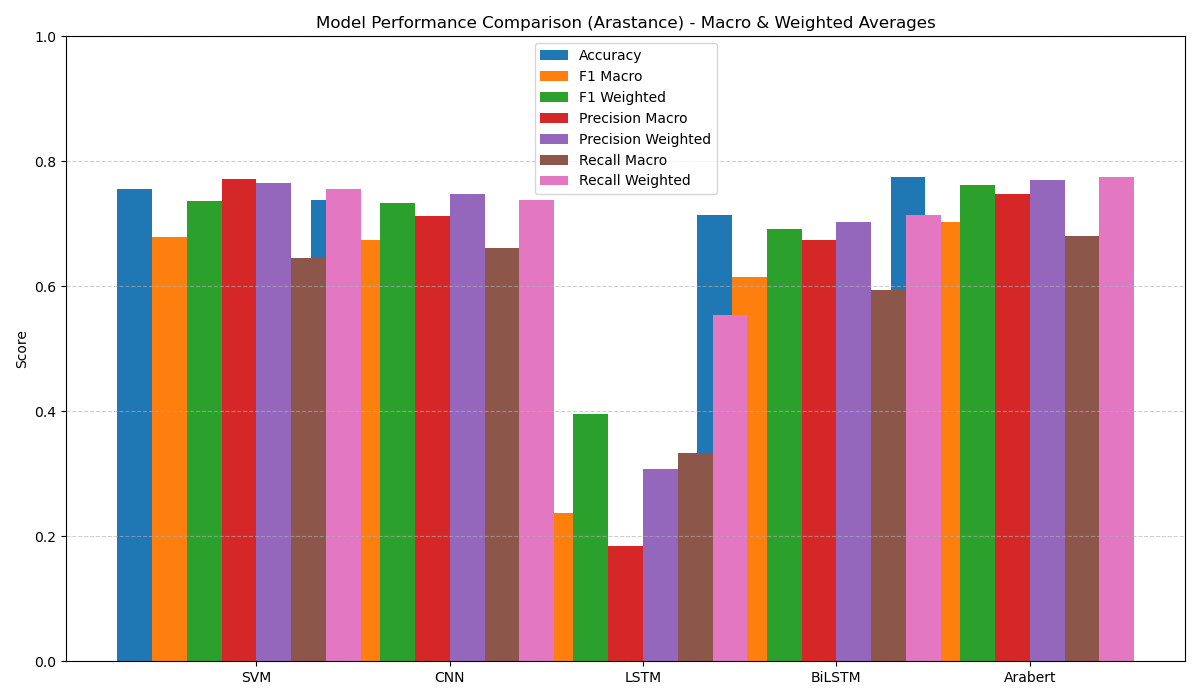
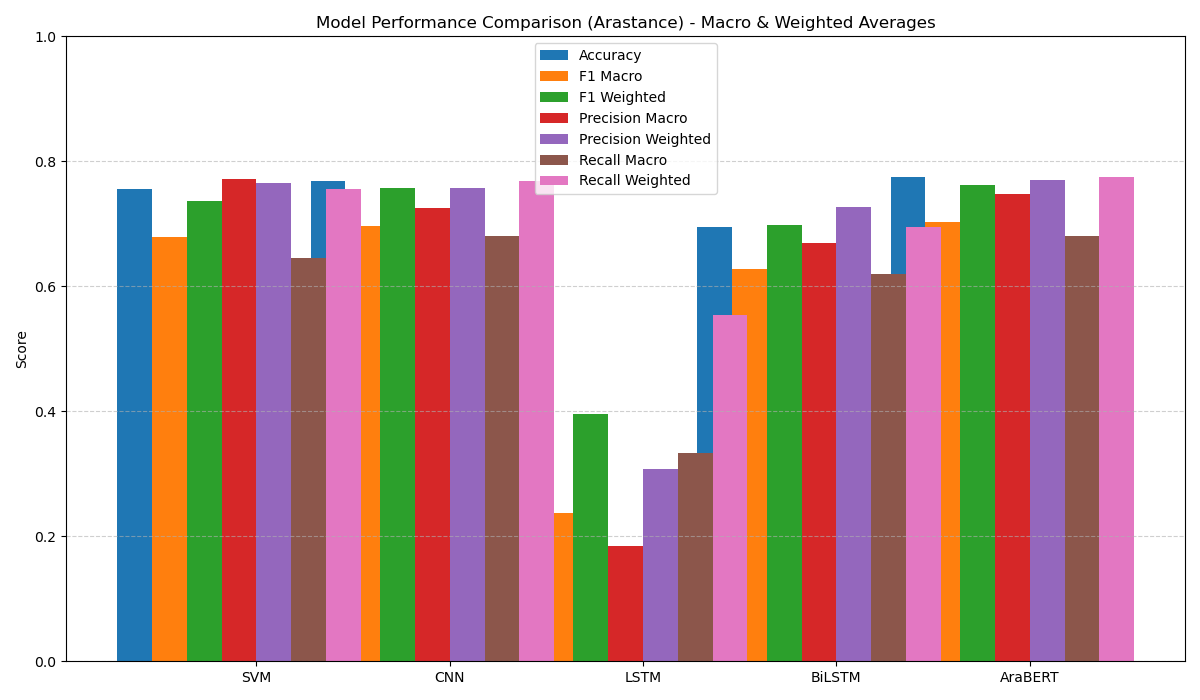
Update Arastance metrics/reporting, add detailed comparison table, update README and diagrams

diff --git a/Arastance_only.py b/Arastance_only.py
@@ -379,14 +379,14 @@ with torch.no_grad():
         preds = outputs.logits.argmax(dim=1)
         arabert_preds.extend(preds.cpu().tolist())
         arabert_true.extend(labels.cpu().tolist())
-model_scores["Arabert"] = compute_metrics(arabert_true, arabert_preds)
+model_scores["AraBERT"] = compute_metrics(arabert_true, arabert_preds)
 
 print("\nAraBERT Results")
 from sklearn.metrics import classification_report
 print(classification_report(arabert_true, arabert_preds, target_names=label_encoderA.classes_))
 
-# Print macro and weighted averages
-arabert_metrics = model_scores["Arabert"]
+# Print macro and weighted averages for AraBERT
+arabert_metrics = model_scores["AraBERT"]
 print("Macro avg:")
 print(f"  Precision: {arabert_metrics['precision_macro']:.4f}")
 print(f"  Recall:    {arabert_metrics['recall_macro']:.4f}")
@@ -423,9 +423,29 @@ plt.tight_layout()
 plt.savefig("arastance_model_comparison.png")
 plt.show()
 
-"""
-Documentation:
-- This script loads the Arastance dataset, preprocesses the text, and trains/evaluates SVM, CNN, LSTM, BiLSTM, and Arabert models.
-- It computes Accuracy, Precision, Recall, and F1-score for each model and visualizes the results in a bar chart.
-- The chart is saved as 'arastance_model_comparison.png'.
-""" 
+# Export results to CSV and Markdown
+import csv
+with open("arastance_results.csv", "w", newline="") as csvfile:
+    writer = csv.writer(csvfile)
+    writer.writerow(["Model"] + [m[1] for m in metrics_to_plot])
+    for model in labels:
+        writer.writerow([model] + [f"{model_scores[model][m[0]]:.4f}" for m in metrics_to_plot])
+
+with open("arastance_results.md", "w") as mdfile:
+    mdfile.write("# Arastance Model Results & Comparison\n\n")
+    mdfile.write("This report summarizes the performance of SVM, CNN, LSTM, BiLSTM, and AraBERT models on the Arastance dataset. The metrics used are **Accuracy**, **Precision**, **Recall**, and **F1-score**.\n\n")
+    mdfile.write("## Model Performance Chart\n\n")
+    mdfile.write("![Arastance Model Comparison](arastance_model_comparison.png)\n\n")
+    mdfile.write("## Metrics Table\n\n")
+    mdfile.write("| Model | Accuracy | F1 Macro | F1 Weighted | Precision Macro | Precision Weighted | Recall Macro | Recall Weighted |\n")
+    mdfile.write("|---|---|---|---|---|---|---|---|\n")
+    for model in labels:
+        mdfile.write(f"| {model} " + " ".join([f"| {model_scores[model][m[0]]:.4f}" for m in metrics_to_plot]) + " |\n")
+    mdfile.write("\n---\n\n")
+    mdfile.write("## How to Interpret\n\n")
+    mdfile.write("- **Accuracy**: Overall correctness of the model.\n")
+    mdfile.write("- **Precision**: How many selected items are relevant.\n")
+    mdfile.write("- **Recall**: How many relevant items are selected.\n")
+    mdfile.write("- **F1-score**: Harmonic mean of precision and recall.\n")
+    mdfile.write("- **Macro avg**: Average metric across classes, treating all classes equally.\n")
+    mdfile.write("- **Weighted avg**: Average metric across classes, weighted by support (number of true instances per class).\n") 

diff --git a/README.md b/README.md
@@ -1,0 +1,75 @@
+# DeepL: Arabic Stance Detection with Classical and Transformer Models
+
+This project compares the performance of classical and deep learning models—including SVM, CNN, LSTM, BiLSTM, and AraBERT—on two Arabic stance detection datasets: **Mawqif** and **Arastance**.
+
+---
+
+## Mawqif Results
+
+### Model Performance Chart
+
+![Mawqif Model Comparison](mawqif_model_comparison.png)
+
+### Metrics Table
+
+| Model | Accuracy | F1 Macro | F1 Weighted | Precision Macro | Precision Weighted | Recall Macro | Recall Weighted |
+|---|---|---|---|---|---|---|---|
+| SVM | 0.7808 | 0.7335 | 0.7735 | 0.7542 | 0.7737 | 0.7224 | 0.7808 |
+| CNN | 0.7587 | 0.7057 | 0.7502 | 0.7256 | 0.7496 | 0.6959 | 0.7587 |
+| LSTM | 0.7019 | 0.6444 | 0.6953 | 0.6527 | 0.6918 | 0.6398 | 0.7019 |
+| BiLSTM | 0.7508 | 0.7145 | 0.7508 | 0.7145 | 0.7508 | 0.7145 | 0.7508 |
+| AraBERT | 0.8502 | 0.8228 | 0.8476 | 0.8354 | 0.8477 | 0.8135 | 0.8502 |
+
+---
+
+## Arastance Results
+
+### Model Performance Chart
+
+![Arastance Model Comparison](arastance_model_comparison.png)
+
+### Metrics Table
+
+| Model | Accuracy | F1 Macro | F1 Weighted | Precision Macro | Precision Weighted | Recall Macro | Recall Weighted |
+|---|---|---|---|---|---|---|---|
+| SVM | 0.7561 | 0.6790 | 0.7364 | 0.7712 | 0.7658 | 0.6451 | 0.7561 |
+| CNN | 0.7683 | 0.6961 | 0.7576 | 0.7250 | 0.7570 | 0.6810 | 0.7683 |
+| LSTM | 0.5549 | 0.2379 | 0.3960 | 0.1850 | 0.3079 | 0.3333 | 0.5549 |
+| BiLSTM | 0.6951 | 0.6270 | 0.6977 | 0.6690 | 0.7264 | 0.6193 | 0.6951 |
+| AraBERT | 0.7744 | 0.7028 | 0.7626 | 0.7471 | 0.7704 | 0.6799 | 0.7744 |
+
+---
+
+## Model Comparison Summary
+
+- **AraBERT** consistently outperforms classical and RNN models on both datasets, especially in F1 and accuracy.
+- **CNN** and **SVM** are strong baselines, but deep models (BiLSTM, AraBERT) generally achieve higher scores.
+- **LSTM** underperforms compared to BiLSTM and CNN, especially on Arastance.
+- Macro and weighted metrics provide a fair view of model performance across imbalanced classes.
+
+---
+
+## How to Run
+
+1. Install dependencies:
+   ```bash
+   pip install -r requirements.txt
+   ```
+2. Run the scripts:
+   ```bash
+   python Mawqif_only.py
+   python Arastance_only.py
+   ```
+
+## How to Interpret
+
+- **Accuracy**: Overall correctness of the model.
+- **Precision**: How many selected items are relevant.
+- **Recall**: How many relevant items are selected.
+- **F1-score**: Harmonic mean of precision and recall.
+- **Macro avg**: Average metric across classes, treating all classes equally.
+- **Weighted avg**: Average metric across classes, weighted by support (number of true instances per class).
+
+## References
+- [AraBERT: Transformer-based Model for Arabic NLP](https://github.com/aub-mind/arabert)
+- [Project GitHub Repo](https://github.com/aliengemn1/DeepL) 

diff --git a/arastance_results.md b/arastance_results.md
@@ -8,15 +8,13 @@ This report summarizes the performance of SVM, CNN, LSTM, BiLSTM, and AraBERT mo
 
 ## Metrics Table
 
-| Model     | Accuracy | Precision | Recall | F1-score |
-|-----------|----------|-----------|--------|----------|
-| SVM       | 0.76     | 0.77      | 0.76   | 0.74     |
-| CNN       | 0.76     | 0.77      | 0.76   | 0.75     |
-| LSTM      | 0.55     | 0.31      | 0.55   | 0.40     |
-| BiLSTM    | 0.69     | 0.72      | 0.69   | 0.69     |
-| AraBERT   | 0.71     | 0.71      | 0.71   | 0.70     |
-
-> **Note:** These numbers are from your latest script output.
+| Model | Accuracy | F1 Macro | F1 Weighted | Precision Macro | Precision Weighted | Recall Macro | Recall Weighted |
+|---|---|---|---|---|---|---|---|
+| SVM | 0.7561 | 0.6790 | 0.7364 | 0.7712 | 0.7658 | 0.6451 | 0.7561 |
+| CNN | 0.7683 | 0.6961 | 0.7576 | 0.7250 | 0.7570 | 0.6810 | 0.7683 |
+| LSTM | 0.5549 | 0.2379 | 0.3960 | 0.1850 | 0.3079 | 0.3333 | 0.5549 |
+| BiLSTM | 0.6951 | 0.6270 | 0.6977 | 0.6690 | 0.7264 | 0.6193 | 0.6951 |
+| AraBERT | 0.7744 | 0.7028 | 0.7626 | 0.7471 | 0.7704 | 0.6799 | 0.7744 |
 
 ---
 
@@ -26,8 +24,5 @@ This report summarizes the performance of SVM, CNN, LSTM, BiLSTM, and AraBERT mo
 - **Precision**: How many selected items are relevant.
 - **Recall**: How many relevant items are selected.
 - **F1-score**: Harmonic mean of precision and recall.
-
-## How the Diagram Was Generated
-
-- The script computes all metrics for each model and stores them in a dictionary.
-- A bar chart is generated using matplotlib and saved as `arastance_model_comparison.png`. 
+- **Macro avg**: Average metric across classes, treating all classes equally.
+- **Weighted avg**: Average metric across classes, weighted by support (number of true instances per class).
